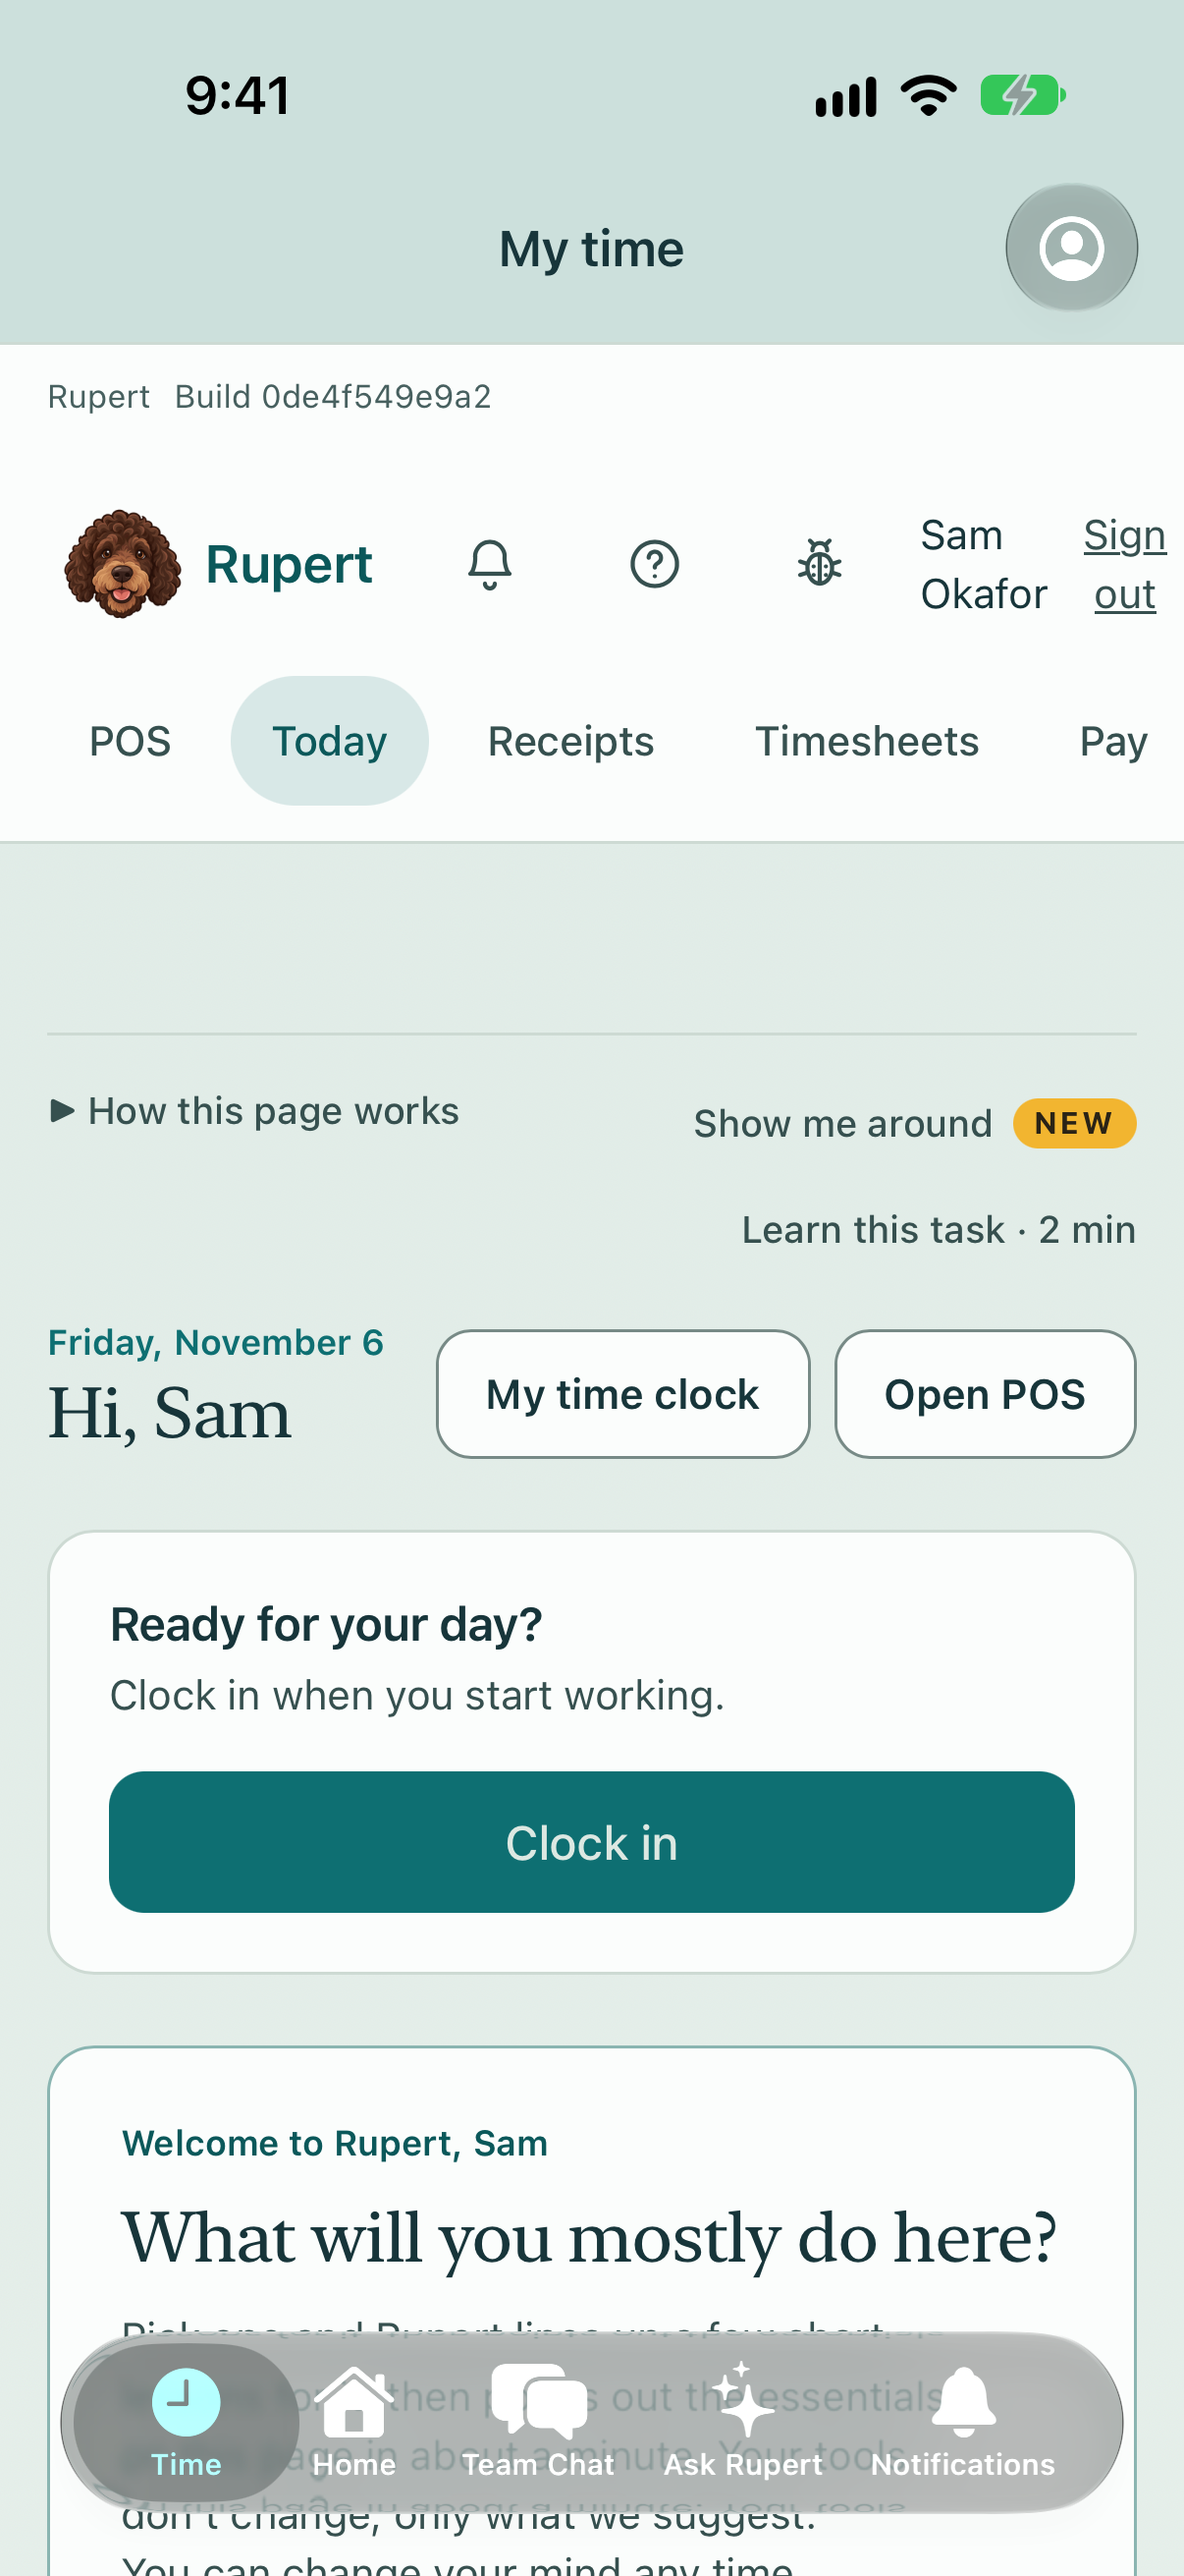
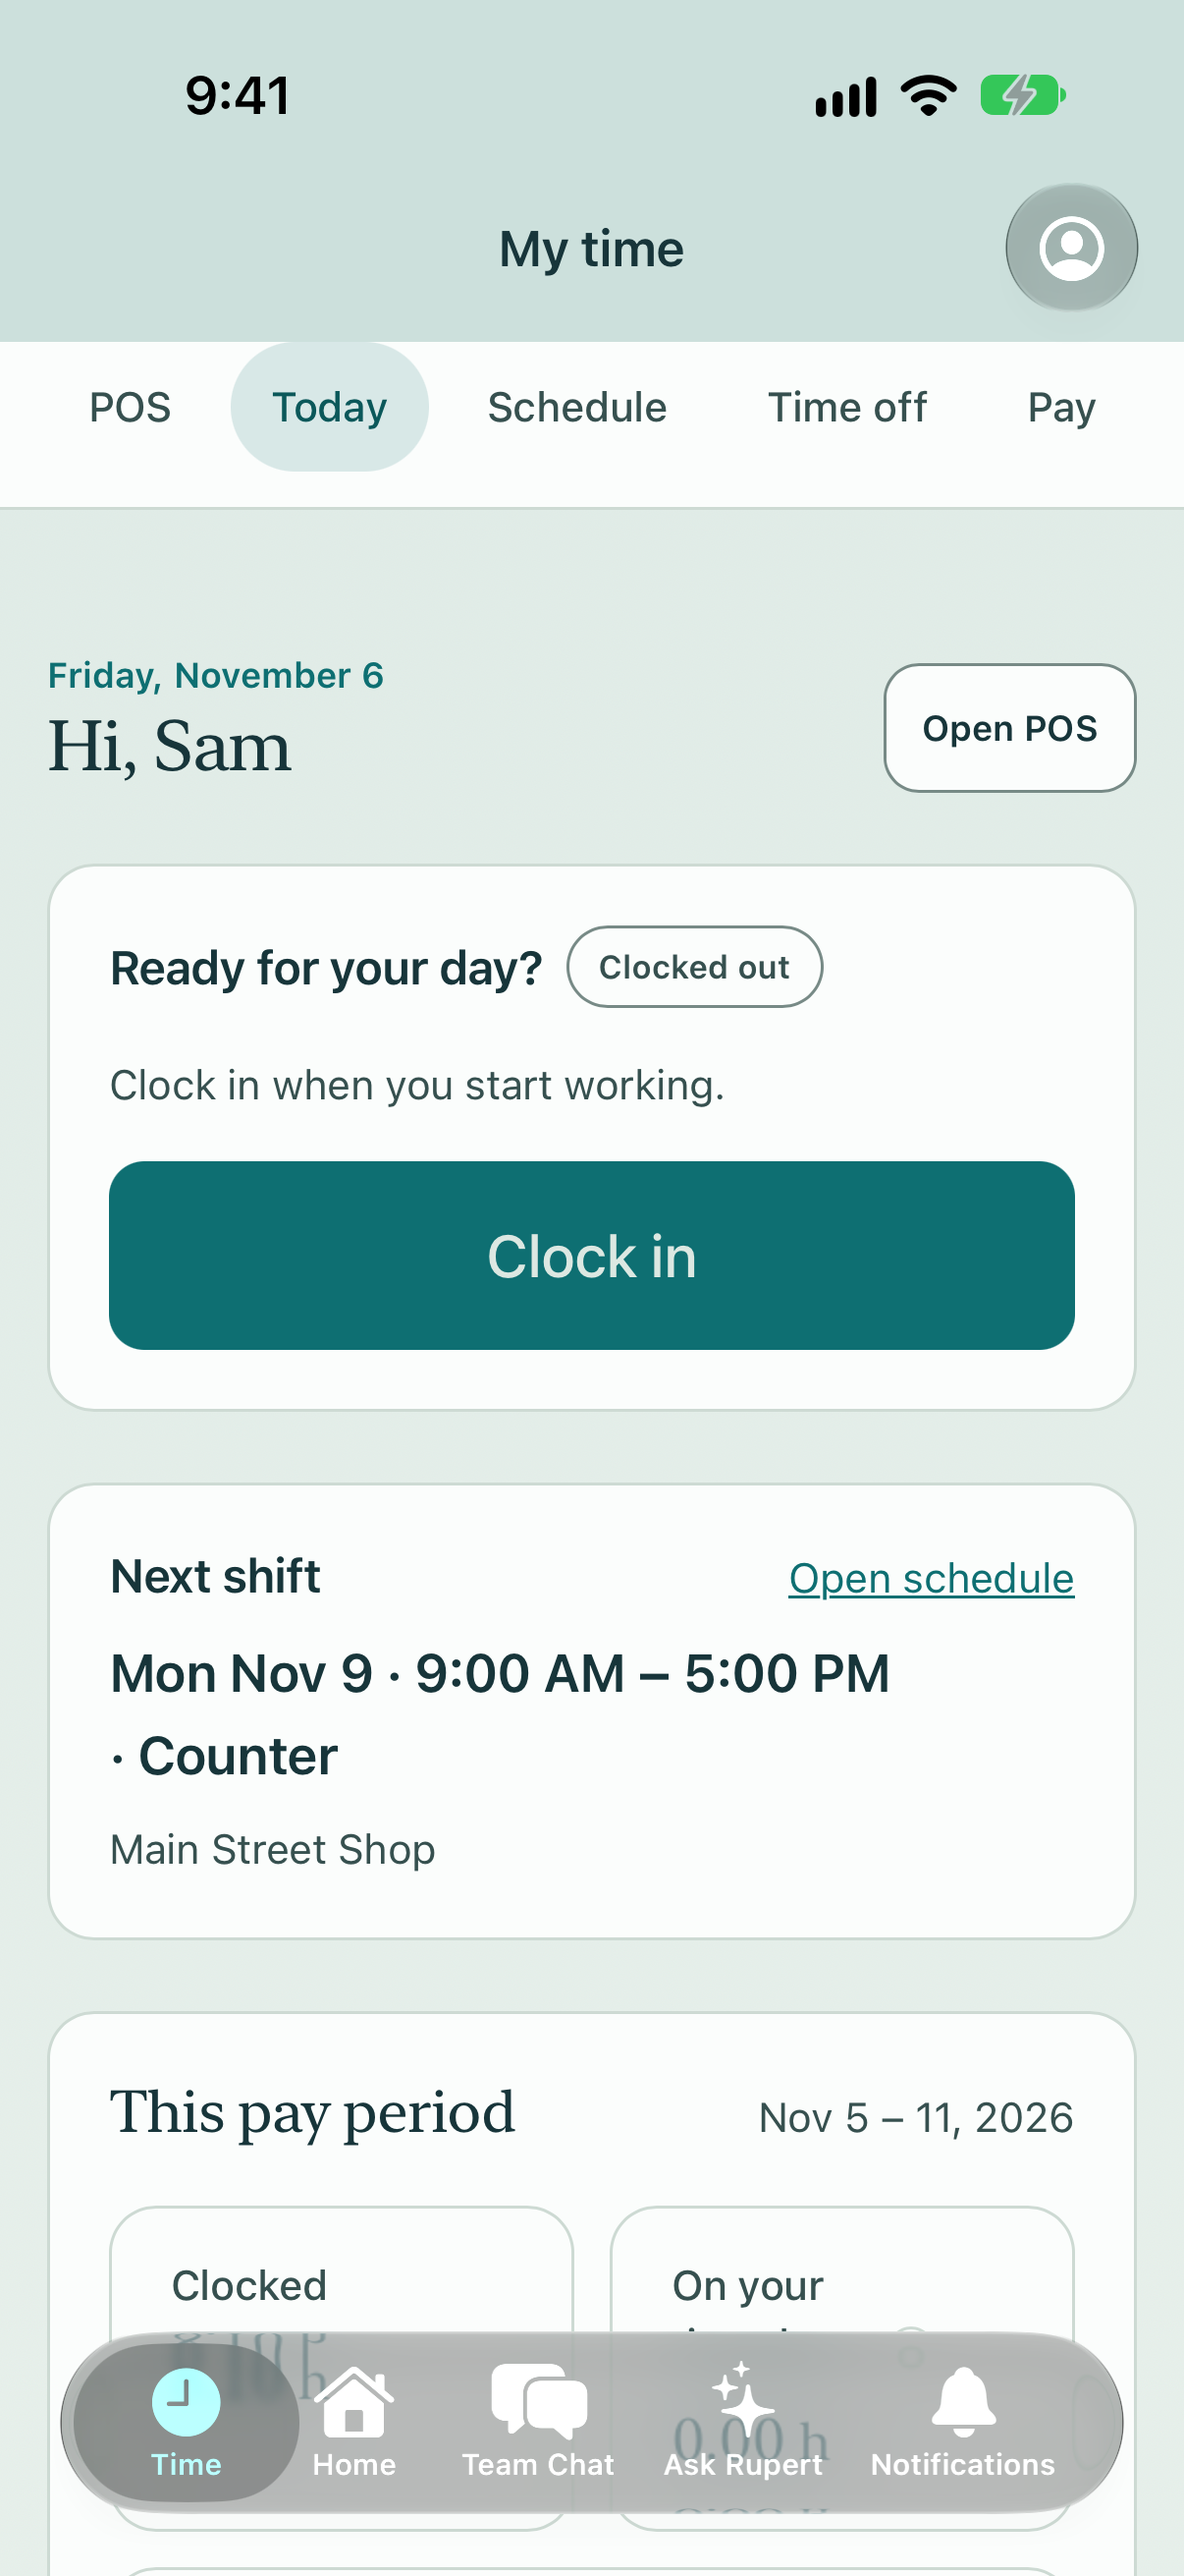
iPhone Simulator screenshots of the merged Time tab; UI test walks the on-screen pills

diff --git a/ios/RupertApp/UITests/TimeFlowsUITests.swift b/ios/RupertApp/UITests/TimeFlowsUITests.swift
@@ -78,16 +78,11 @@ final class TimeFlowsUITests: XCTestCase {
                       "the Time tab lands on the staff home after sign-in")
         shoot("time-home")
 
-        // The staff nav pills are on every Time page; some sit past the right edge and need a swipe.
-        for (label, pill) in [("schedule", "Schedule"), ("time-off", "Time off"), ("pay", "Pay"), ("timesheets", "Timesheets")] {
+        // The staff nav pills are on every Time page. Timesheets sits past the right edge on a phone
+        // (XCUITest cannot judge hittability of an off-screen web link), so this walks the four on screen.
+        for (label, pill) in [("schedule", "Schedule"), ("time-off", "Time off"), ("pay", "Pay")] {
             let link = app.webViews.links[pill].firstMatch
             guard link.waitForExistence(timeout: 10) else { continue }
-            if !link.isHittable {
-                let nav = app.webViews.otherElements["My workspace"].firstMatch
-                if nav.exists { nav.swipeLeft() }
-            }
-            // A pill still past the edge (six pills on a narrow phone) is not this test's subject; skip it.
-            guard link.isHittable else { continue }
             link.tap()
             sleep(3)
             shoot(label)
